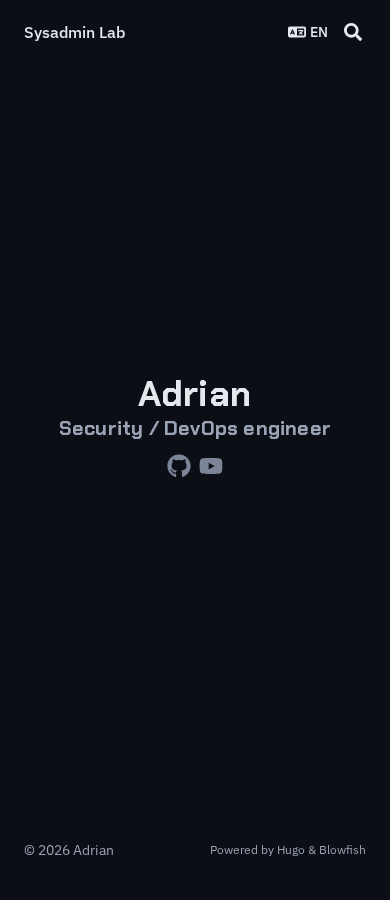
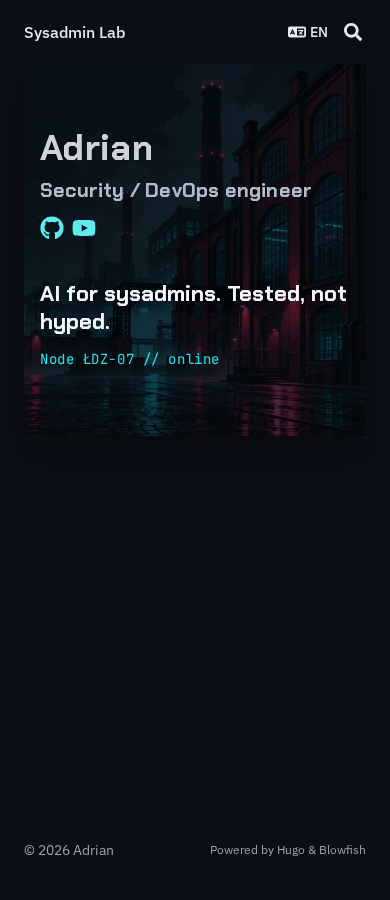
Homepage: hero layout with image and tagline

diff --git a/assets/css/custom.css b/assets/css/custom.css
@@ -196,3 +196,65 @@ mark {
 .bg-surface {
   background-color: rgba(var(--color-surface), 1);
 }
+
+/* -- Homepage hero --
+ * Blowfish's hero layout centres everything over the image. The left side of
+ * hero.webp is the dark one, so the text block is moved there and backed by a
+ * gradient that fades into the lit right-hand side. Scoped with :has() to the
+ * block that contains the tagline from content/_index.*.md.
+ */
+article .relative:has(> section .hero-tagline) {
+  align-items: flex-start;
+  text-align: left;
+  background-image: linear-gradient(
+    90deg,
+    rgba(var(--color-neutral-900), 0.82) 0%,
+    rgba(var(--color-neutral-900), 0.6) 40%,
+    rgba(var(--color-neutral-900), 0) 75%
+  );
+}
+
+article .relative:has(> section .hero-tagline) > .mt-3 > .flex {
+  margin-left: -0.25rem; /* align icon glyphs with the text edge */
+}
+
+.hero-tagline {
+  max-width: 34rem;
+}
+
+.prose .hero-tagline p {
+  margin: 0;
+}
+
+.prose .hero-tagline .hero-tagline__lead {
+  font-family: var(--font-heading);
+  font-weight: 700;
+  font-size: 1.75rem;
+  line-height: 1.25;
+  color: rgba(var(--color-neutral-50), 1);
+  text-shadow: 0 1px 12px rgba(var(--color-neutral-900), 0.8);
+}
+
+.prose .hero-tagline .hero-tagline__node {
+  margin-top: 0.75rem;
+  font-family: var(--font-mono);
+  font-size: 0.875rem;
+  letter-spacing: 0.04em;
+  color: rgba(var(--color-primary-400), 1);
+}
+
+/* Narrow screens: the image is cropped around its centre, so the bright
+ * facade sits behind the text. Darken evenly instead of left-to-right. */
+@media (max-width: 639px) {
+  article .relative:has(> section .hero-tagline) {
+    background-image: linear-gradient(
+      180deg,
+      rgba(var(--color-neutral-900), 0.55) 0%,
+      rgba(var(--color-neutral-900), 0.75) 100%
+    );
+  }
+
+  .prose .hero-tagline .hero-tagline__lead {
+    font-size: 1.375rem;
+  }
+}

diff --git a/CLAUDE.md b/CLAUDE.md
@@ -4,3 +4,5 @@ Konfiguracja: config/_default/. Języki: en (domyślny), pl, w podkatalogach /en
 Deploy: Netlify z gałęzi main. Pracuj na branchach, PR do main, bez bezpośredniego pusha do main.
 netlify.toml: nagłówki bezpieczeństwa i tymczasowy X-Robots-Tag noindex. Nie zmieniaj bez prośby.
 Build musi przechodzić bez ostrzeżeń: hugo --gc --minify
+Commity: bez trailerów Co-Authored-By i Claude-Session.
+Opisy PR: bez "Generated with Claude Code" i bez linków do sesji Claude.

diff --git a/content/_index.pl.md b/content/_index.pl.md
@@ -1,0 +1,9 @@
+---
+# Strona główna. Renderowana przez layout "hero" Blowfisha (config/_default/params.toml);
+# style taglinu są w assets/css/custom.css.
+---
+
+<div class="hero-tagline">
+  <p class="hero-tagline__lead">AI dla sysadminów. Sprawdzone, bez hype’u.</p>
+  <p class="hero-tagline__node">Węzeł ŁDZ-07 // online</p>
+</div>

diff --git a/content/_index.en.md b/content/_index.en.md
@@ -1,0 +1,9 @@
+---
+# Homepage. Rendered by the Blowfish "hero" layout (config/_default/params.toml);
+# styling of the tagline lives in assets/css/custom.css.
+---
+
+<div class="hero-tagline">
+  <p class="hero-tagline__lead">AI for sysadmins. Tested, not hyped.</p>
+  <p class="hero-tagline__node">Node ŁDZ-07 // online</p>
+</div>
